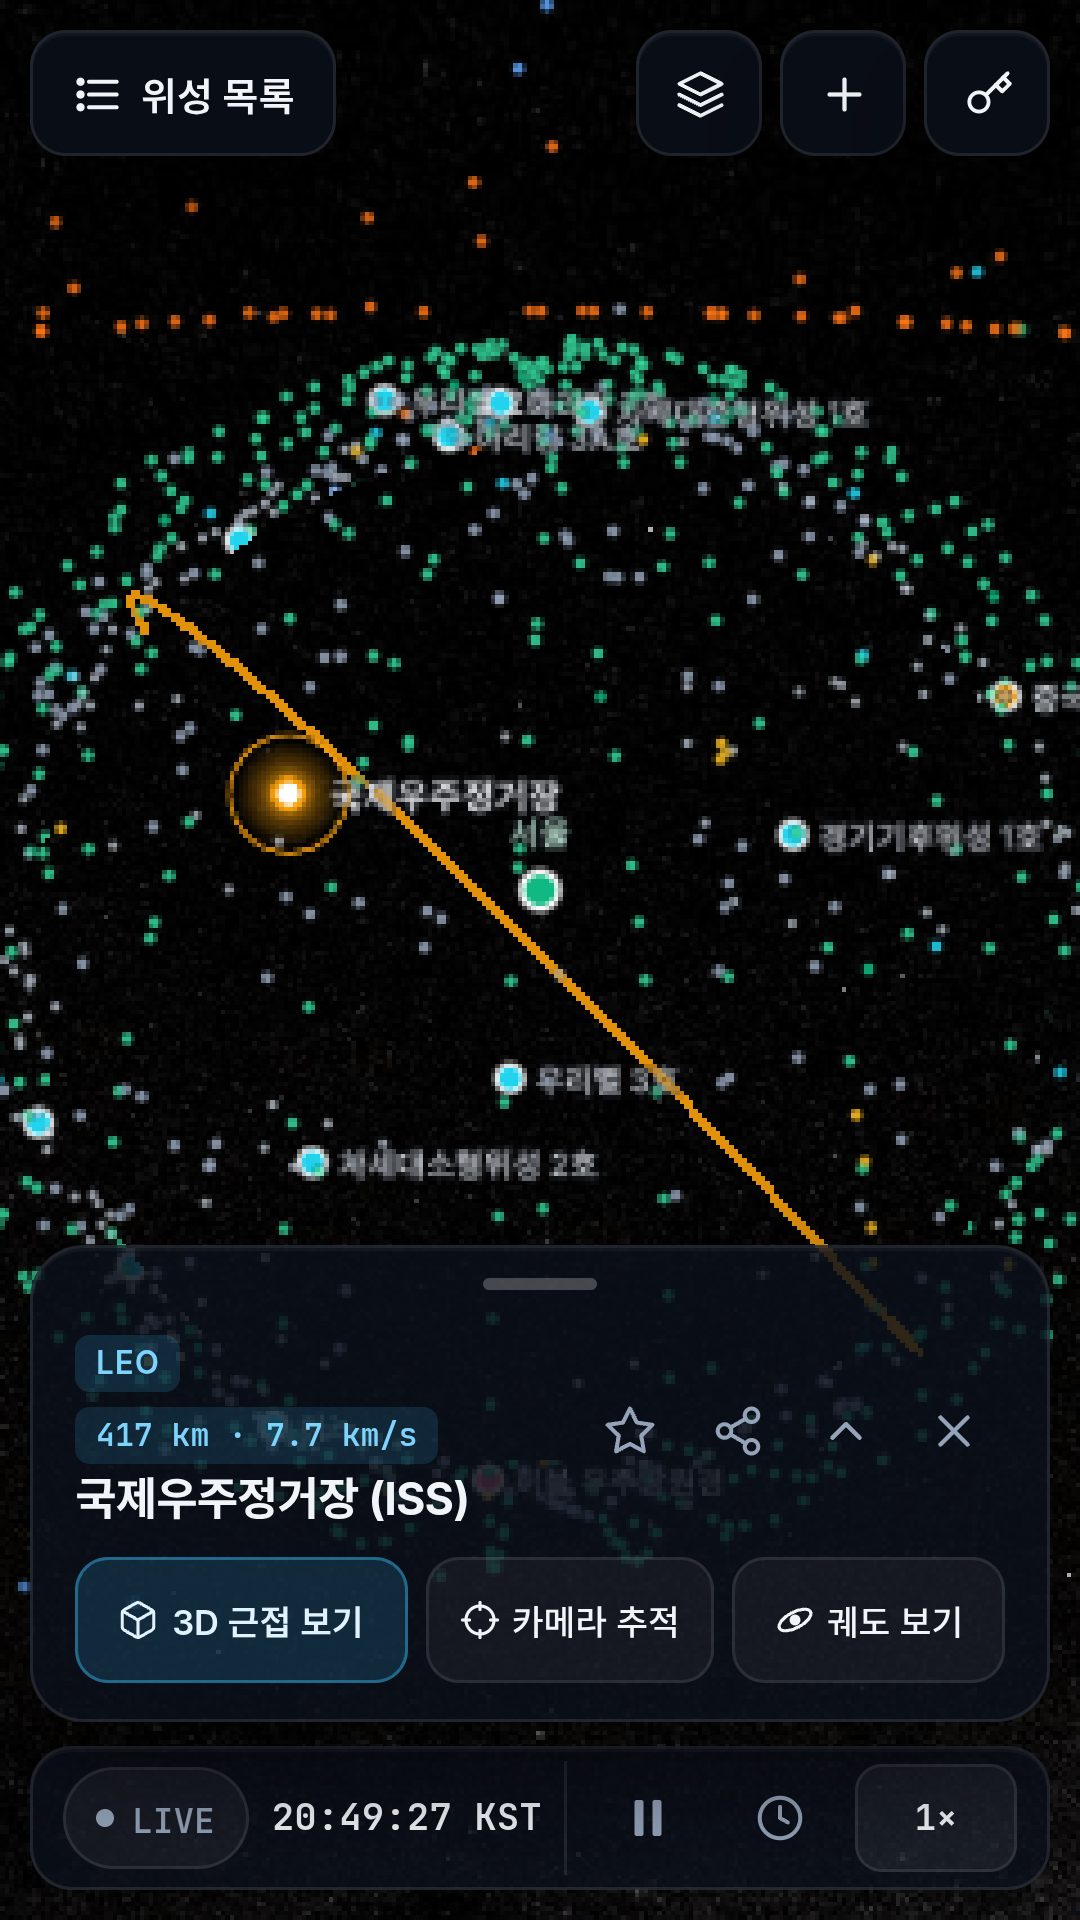
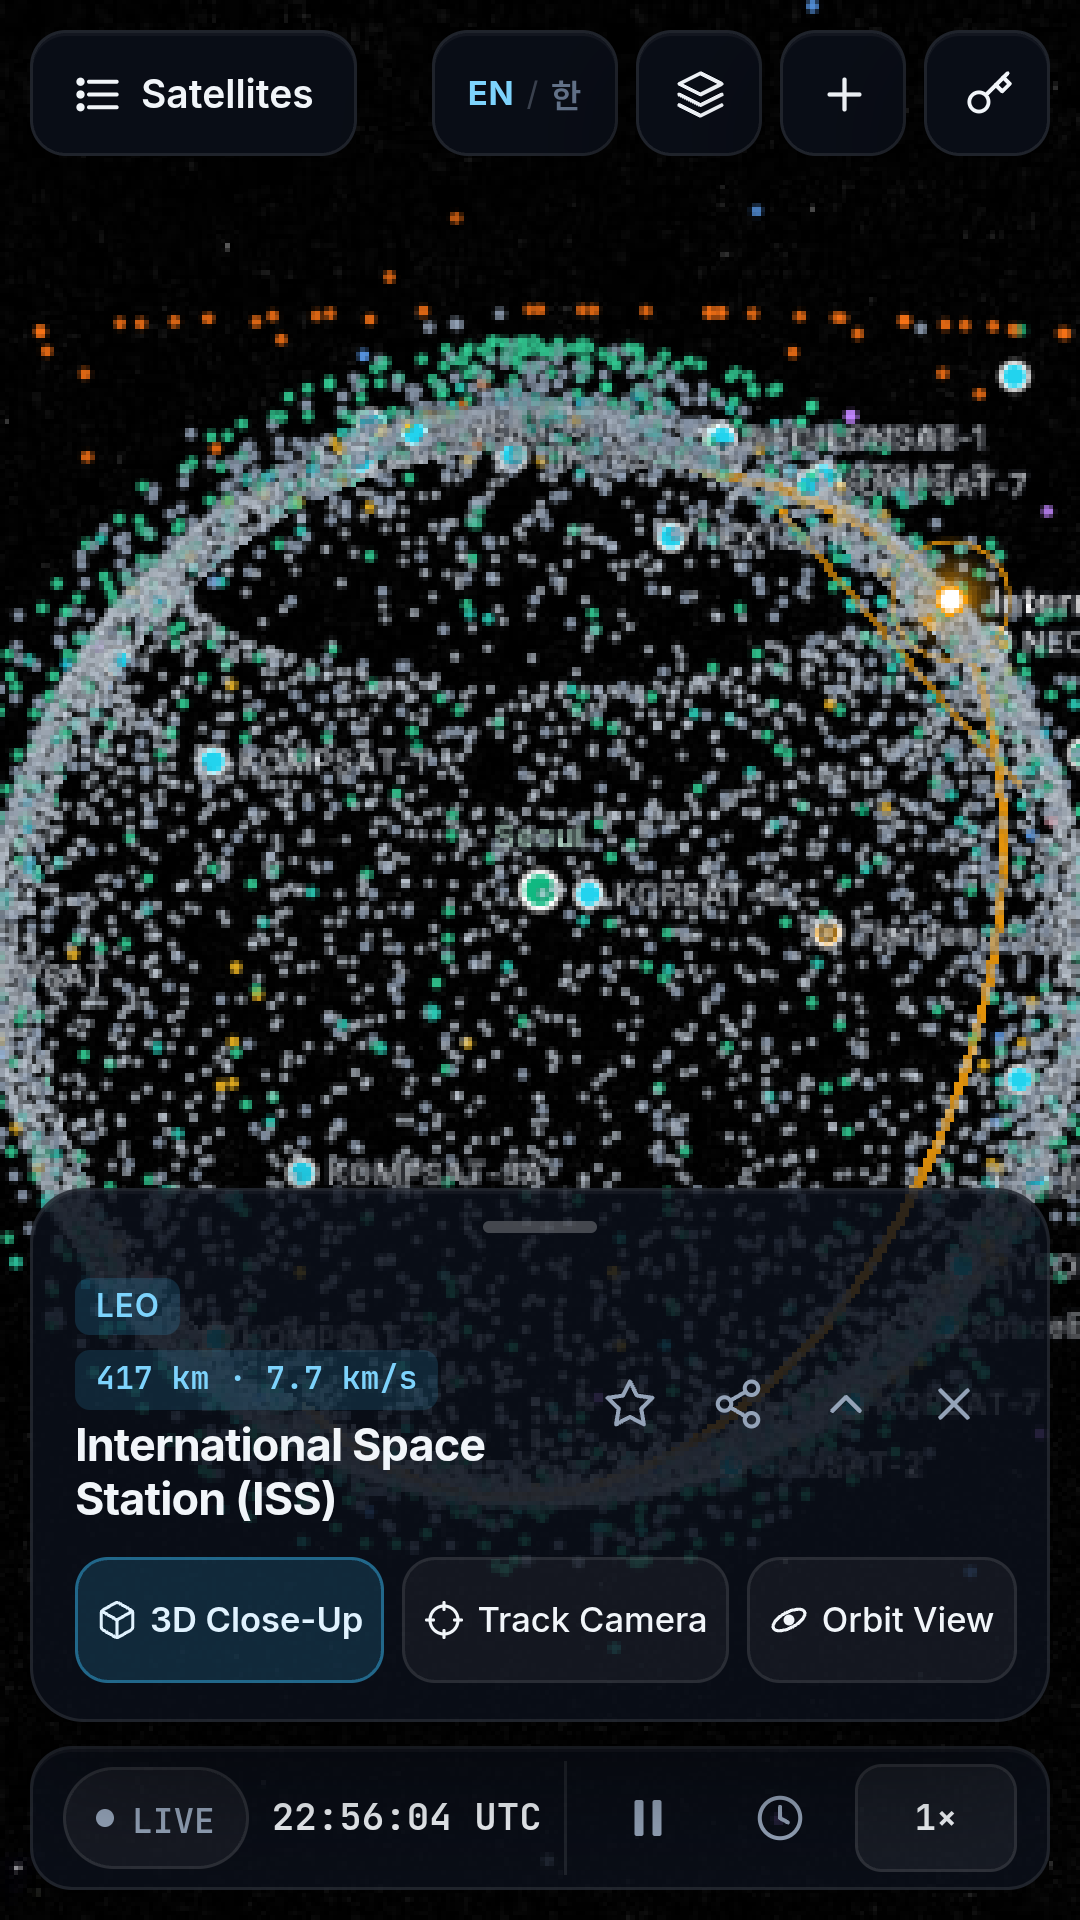
Update screenshots for EN/KO SATCAT & visual visibility release and add animated demo GIF

diff --git a/README.md b/README.md
@@ -1,40 +1,49 @@
-# OrbitPulse 3D — 실시간 인공위성 3D 구글 지도 추적기
+# OrbitPulse 3D — Real-Time 3D Satellite Tracker (실시간 인공위성 3D 추적기)
 
-**CelesTrak** 무료 공개 전체 카탈로그(`GROUP=active` 16,900+기 및 전 세계 GNSS·GEO·OneWeb·Iridium·큐브위성·아마추어·한국 위성 전체)와 **SGP4/SDP4 궤도 역학(`satellite.js`)** 을 이용해 지구 궤도 위 모든 공개 인공위성을 **3D 구글 지도** 위에 60fps로 실시간 추적·시각화하는 웹 애플리케이션입니다.
+![OrbitPulse 3D Live Demo](./screenshots/orbitpulse-demo.gif)
+
+**CelesTrak** 무료 공개 전체 카탈로그(`GROUP=active` 17,000+기, 100% SATCAT 메타데이터 결합)와 **SGP4/SDP4 궤도 역학(`satellite.js`)** 을 이용해 지구 궤도 위 모든 공개 인공위성을 **3D 지구본(Google Hybrid / Photorealistic 3D Tiles / Google Maps 3D)** 위에 60fps로 실시간 추적·시각화하는 웹 애플리케이션입니다. **영어 기본(EN) + 한국어(한) 즉시 전환**을 지원합니다.
+
+👉 **Live Demo**: https://knoxxr.github.io/satellite-tracker-3d/
 
 ## 주요 기능
 
-- **무료 공개 전체 인공위성 실시간 추적 (16,900+기 · SGP4 + CelesTrak OMM JSON)**
-  - **`전체 위성 (ALL)`** 모드에서 GPU `PointPrimitiveCollection` + 2단계 타임슬라이스 SGP4 엔진으로 **16,900기 이상 전 세계 활성 위성**을 60fps로 동시 렌더링하며, 카테고리별 색상으로 궤도 쉘(스타링크·OneWeb·GNSS·GEO·한국 위성 등)을 구분합니다.
-  - **13개 무료 카테고리**: 전체 활성(ALL), 주요 추천, 즐겨찾기, 한국 위성(아리랑 1~7·천리안 1/2A/2B·우리별 1~3·무궁화·차세대중형/소형·초소형군집·SNUGLITE·경기기후위성 등), 우주정거장, 기상·지구관측(`weather`+`resource`), 전세계 GNSS(`GPS`+`Galileo`+`GLONASS`+`BeiDou`+`SBAS`), 과학·천문, 정지궤도 GEO, 스타링크 전체, OneWeb·Iridium·Globalstar, 큐브·아마추어, 최근 30일 발사.
-  - **IndexedDB / 서버 2시간 캐싱** 및 오프라인 폴백 지원, **NORAD ID·위성 이름 실시간 전체 DB 검색**, **사용자 TLE 직접 입력** 지원.
+- **무료 공개 전체 인공위성 실시간 추적 (17,000+기 · 18개 카테고리 · 100% SATCAT 메타데이터)**
+  - **`All Active`** 모드에서 GPU `PointPrimitiveCollection` + 2단계 타임슬라이스 SGP4 엔진으로 **17,000기 이상 전 세계 활성 위성**을 60fps로 동시 렌더링하며, 카테고리별 색상으로 궤도 쉘(스타링크·OneWeb·GNSS·GEO·한국 위성 등)을 구분합니다.
+  - **18개 무료 카테고리**: 전체 활성(`All`), 주요 추천, 즐겨찾기, **육안 관측 가능(`Bright/Visual`)**, **한국 위성 전체(`South Korea`, 83기+ · SATCAT `OWNER=SKOR`)**, **누리호 발사 위성(`Nuri/Naro`)**, 우주정거장, 기상, 지구관측(`Earth Obs`), 전세계 GNSS(`GPS`+`Galileo`+`GLONASS`+`BeiDou`+`SBAS`), 과학·천문, 정지궤도(`GEO`), 장타원·Molniya(`HEO`), 스타링크 전체, OneWeb·Iridium·Globalstar, 큐브·아마추어, 최근 30일 발사, 기타(`Other`).
+  - **CelesTrak SATCAT 메타데이터**: 모든 위성의 국가/운영기관(`OWNER`), 발사일(`LAUNCH_DATE`), 발사장(`LAUNCH_SITE`), 레이더 단면적(`RCS` m² & 크기 등급) 표시.
+  - **실시간 육안 관측 판정 엔진**: 태양 위치·지구 그림자(엄브라/페넘브라)·관측지 박명 상태를 천문학적으로 계산하여 **`Visible Now` / `Sunlit` / `Eclipsed` / `Daylight` / `Below Horizon`** 배지 및 향후 48시간 통과 일정별 **`★ Eye` / `★ 육안`** 판정 제공.
+  - **무제한 동시 접속 대응 CDN 스냅샷 아키텍처**: GitHub Actions 3시간 주기 자동 갱신 + Singleflight / SWR / ETag 304 / IndexedDB 캐싱으로 다수 동시 접속 시에도 CelesTrak API 레이트리밋 차단 없이 초고속 로딩.
+- **한영 다국어 지원 (`EN / 한` 즉시 전환, 영어 기본)**
+  - 상단 헤더 `EN / 한` 토글 버튼으로 모든 UI·카테고리·SATCAT·육안 판정·통과 일정·3D 자세 가이드·Cesium 라벨 및 Google 하이브리드 지도 라벨 언어를 새로고침 없이 즉시 전환합니다.
 - **3가지 3D 구글 지도 렌더링 모드 지원**
   1. **3D 지구본 (즉시 실행 · API 키 불필요)**: CesiumJS 3D 지구본 + Google 하이브리드/위성 타일 + 실시간 태양광(주/야간 경계선)
   2. **Google Photorealistic 3D Tiles**: Google Cloud **Map Tiles API** 키를 입력하면 실사 3D 건물·지형 지구본 위에 위성 궤도를 렌더링
   3. **Google Maps 3D 네이티브 (`<gmp-map-3d>`)**: Google **Maps JavaScript API (`maps3d`)** 기반 네이티브 3D 지도, `Marker3DInteractiveElement`, `Polyline3DElement` 지원
 - **줌인 시 실제 3D 위성 모델 표시 (3단계 실물·추정 하이브리드 + 거리 기반 LOD)**
-  - 우주 전체 뷰에서는 60fps 발광 포인트로 표시하다가, 위성에 **줌인**하거나 우측 패널의 **`3D 근접 보기`** 버튼을 누르면 실제 3D 위성 모델로 자동 전환됩니다.
+  - 우주 전체 뷰에서는 60fps 발광 포인트로 표시하다가, 위성에 **줌인**하거나 우측 패널의 **`3D Close-Up`** 버튼을 누르면 실제 3D 위성 모델로 자동 전환됩니다.
   - **1단계 · NASA 공식 실물 3D CAD (13종, Public Domain)**: ISS, 허블 우주망원경(HST), Terra, Aqua, Aura, Landsat 8/9, Suomi NPP / NOAA-20·21(JPSS), Chandra, TESS, CloudSat, CALIPSO, TDRS, Jason ([NASA 3D Resources](https://github.com/nasa/NASA-3D-Resources))
   - **2단계 · 공식 제원 기반 실제 형상 모델 (3종)**: 중국 톈궁(T자형 3모듈), 아리랑 5호(X-밴드 SAR 대형 평판 레이더), 천리안 2A/2B호·GOES-R(남측 외날개 태양전지판 + 북측 솔라세일 붐)
   - **3단계 · 유형별 추정 모델링 (6종)**: 실물 CAD 데이터가 없는 나머지 모든 위성(아리랑 광학형, 무궁화, GPS/Galileo, 스타링크 등)에 자동 적용되며, 모든 모델은 SGP4 속도·직하 방향 기반 **LVLH 비행 자세**로 실시간 회전합니다.
-- **3D 궤도·가시권 분석 및 통과 예측**
+- **3D 궤도·가시권 분석 · 타임라인 · 모바일 · PWA**
   - 선택 위성의 과거/미래 3D 궤도 곡선, 직하선(Nadir Line), 지상 커버리지(Footprint) 및 근접 시 **진행·지구 방향 3D 화살표** 표시
-  - 지상 관측소(서울, 대전 KARI, 부산, 제주, 내 GPS 위치 등) 기준 **방위각(AZ), 고도각(EL), 직선거리(km), 시선(LOS) 빔** 및 **향후 48시간 다건 통과 일정(최대 5회)** + **통과 시각 즉시 점프** 기능
+  - 지상 관측소(서울, 대전 KARI, 부산, 제주, 내 GPS 위치 등) 기준 **방위각(AZ), 고도각(EL), 직선거리(km), 시선(LOS) 빔** 및 **향후 48시간 다건 통과 일정(최대 5회)** + **통과 시각 즉시 점프**
   - **±24시간 타임라인 스크러버**, 시간 배속(`1×` ~ `1000×`), 일시정지, 실시간(`LIVE`) 즉시 복귀
-- **편의성 · 모바일 · PWA**
-  - **즐겨찾기**(`localStorage` 영속화) 및 `?sat=25544&closeup=1` **URL 딥링크 공유**
-  - 모바일 터치 최적화 **바텀시트(Peek ↔ Expanded)**, 스와이프 제스처, `28×28px` 터치 픽킹, 안전 영역(`safe-area`) 대응
-  - **PWA Service Worker** 오프라인 캐싱 및 홈 화면 설치 지원, 초기 로딩 스플래시
+  - **즐겨찾기**(`localStorage`), `?sat=25544&closeup=1` **URL 딥링크 공유**, **모바일 바텀시트(Peek ↔ Expanded)** 및 **PWA 오프라인 설치** 지원
 
 ## 스크린샷
 
-| 글로벌 3D 추적 | NASA ISS 3D 실물 근접 |
+| 글로벌 3D 추적 (17,038기 · EN 기본) | NASA ISS 3D 실물 근접 |
 |---|---|
 | ![글로벌 3D 추적](./screenshots/01-overview.png) | ![ISS 3D 근접](./screenshots/02-iss-3d-closeup.png) |
 
-| 한국 위성 (천리안 2A · 아리랑) | NASA 허블 3D 실물 근접 |
+| 한국 위성 83기 · 한국어 모드 (`한`) | NASA 허블 3D 실물 근접 |
 |---|---|
 | ![한국 위성](./screenshots/03-korea-satellites.png) | ![허블 3D 근접](./screenshots/04-hubble-3d-closeup.png) |
+
+| 육안 관측 목록 · 레이어 · ±24h 타임라인 | 모바일 메인 / 확장 바텀시트 |
+|---|---|
+| ![레이어 및 타임라인](./screenshots/05-layers-and-scrubber.png) | <img src="./screenshots/06-mobile.png" width="210" alt="모바일 메인" /> <img src="./screenshots/07-mobile-sheet.png" width="210" alt="모바일 확장 바텀시트" /> |
 
 ## 실행 방법
 
